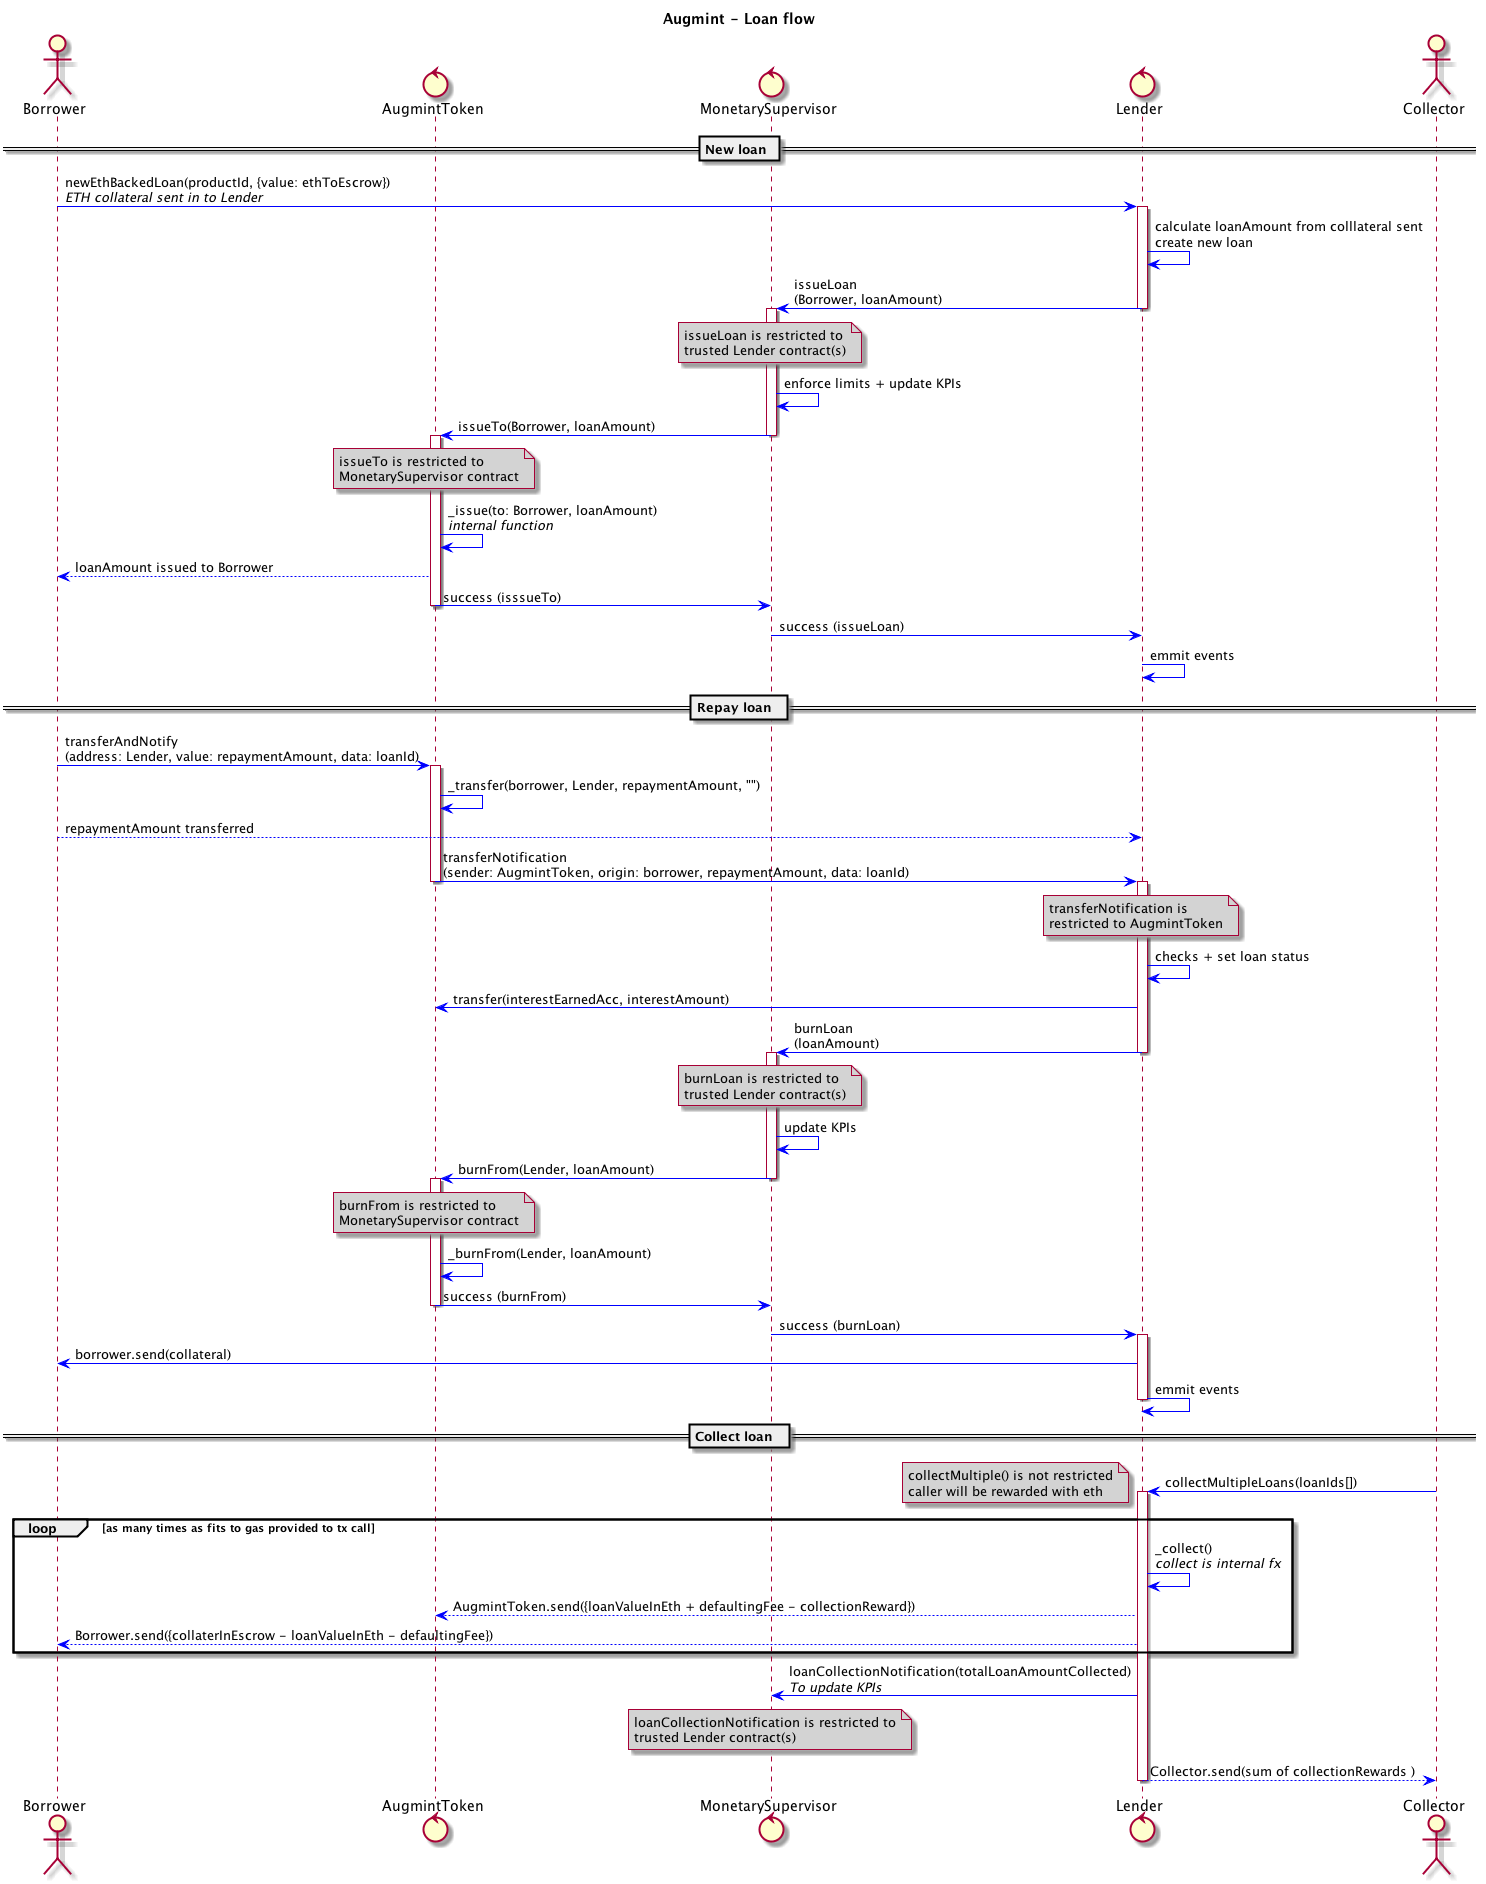
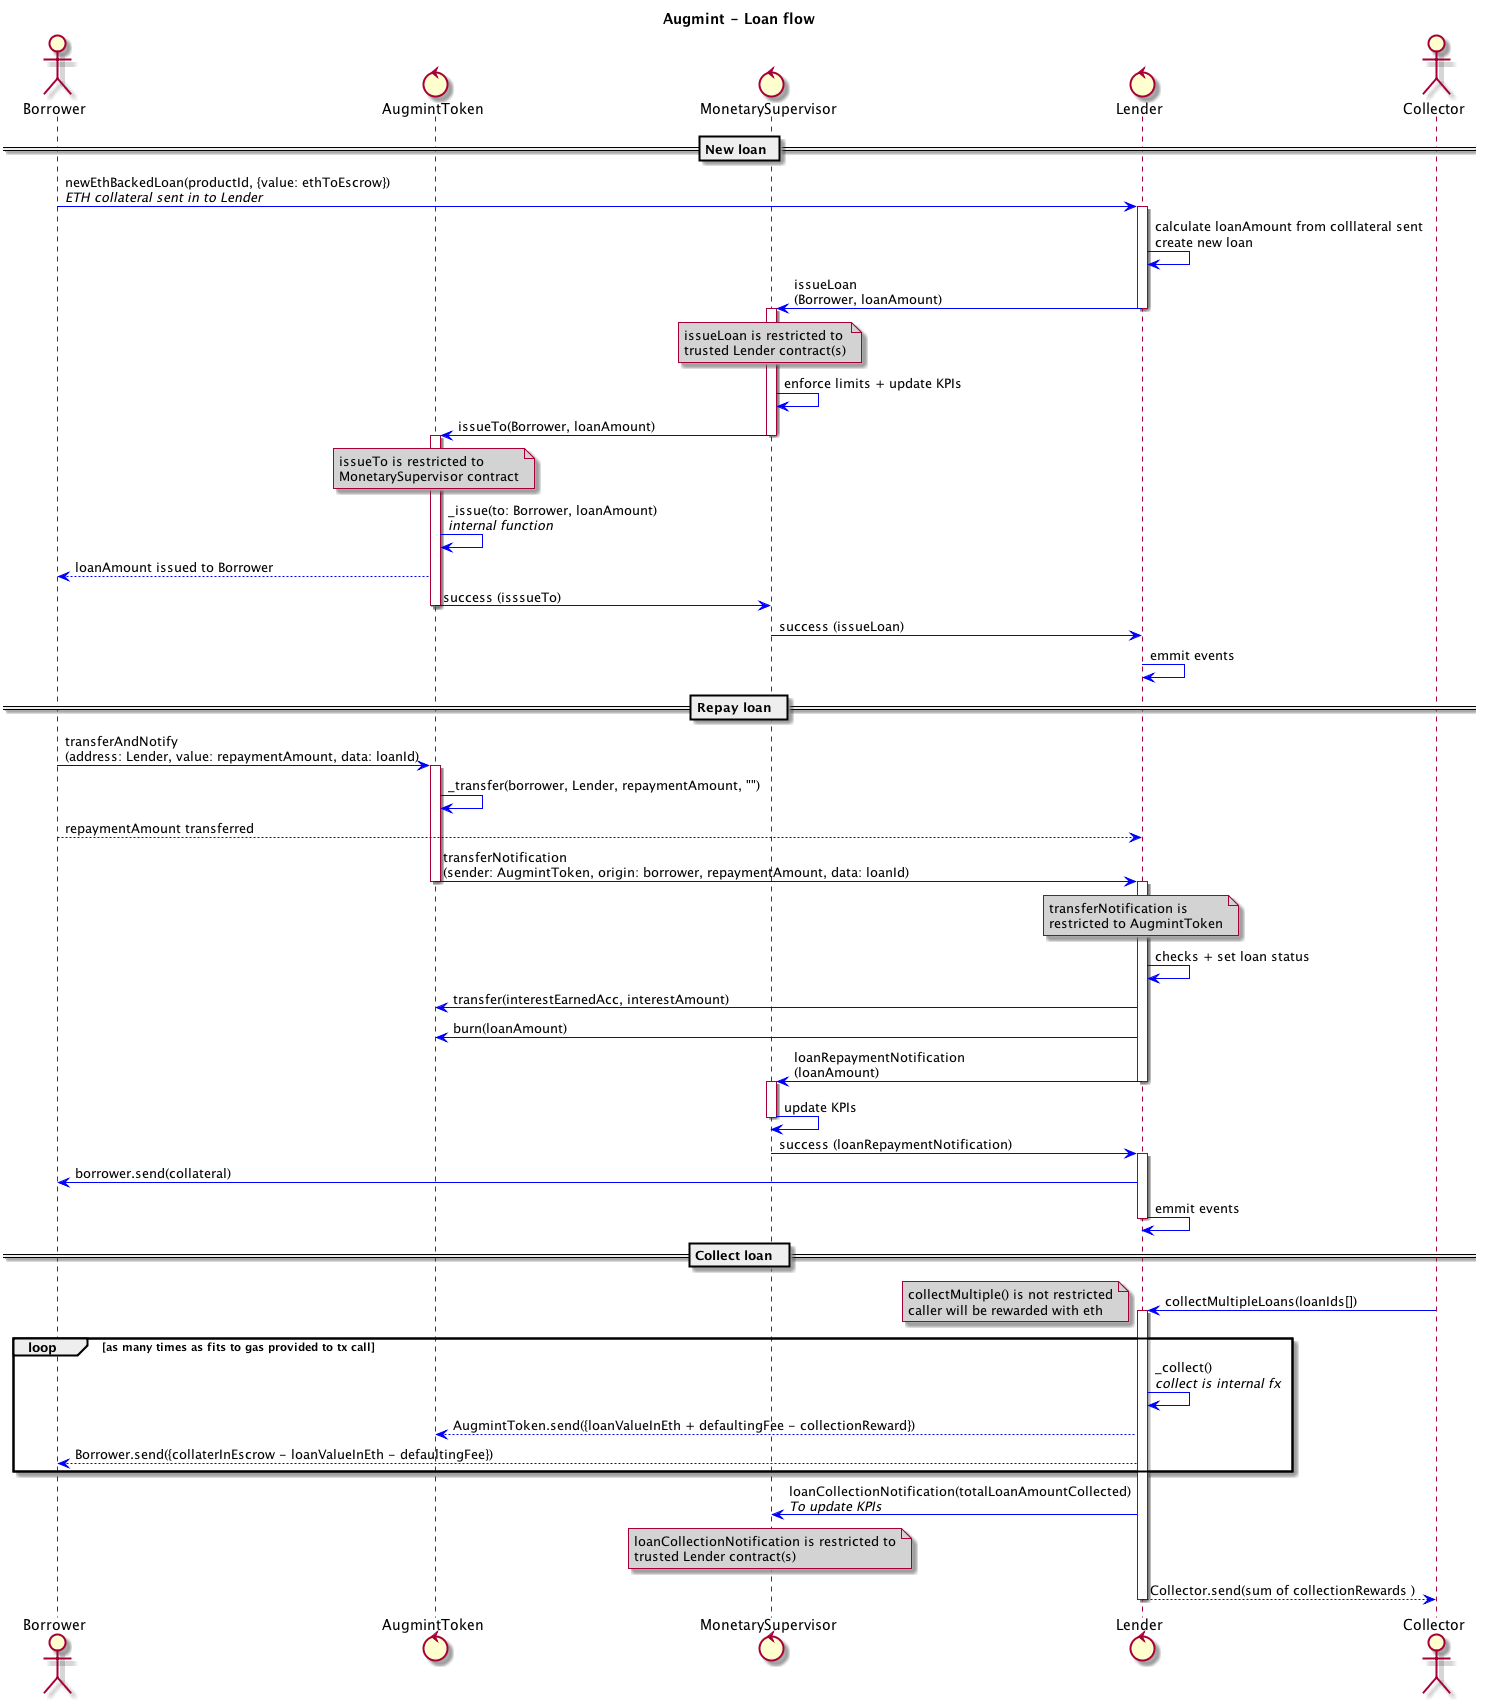
added AugmintReserves contract & restrict burn only from own balance

diff --git a/test/monetarySupervisor.test.js b/test/monetarySupervisor.test.js
@@ -3,34 +3,35 @@ const monetarySupervisorTestHelpers = require("./helpers/monetarySupervisorTestH
 const testHelper = require("./helpers/testHelper.js");
 
 const NULL_ACC = "0x0000000000000000000000000000000000000000";
-let tokenAce, monetarySupervisor;
+let tokenAce, monetarySupervisor, augmintReserves;
 
-contract("TokenAce tests", accounts => {
+contract("MonetarySupervisor tests", accounts => {
     before(async () => {
         tokenAce = await tokenAceTestHelper.newTokenAceMock();
         monetarySupervisor = await monetarySupervisorTestHelpers.newMonetarySupervisorMock(tokenAce);
+        augmintReserves = await monetarySupervisor.augmintReserves();
     });
 
     it("should be possible to issue new tokens to reserve", async function() {
         const amount = 100000;
         const [totalSupplyBefore, reserveBalBefore, issuedByMonetaryBoardBefore] = await Promise.all([
             tokenAce.totalSupply(),
-            tokenAce.balanceOf(tokenAce.address),
+            tokenAce.balanceOf(augmintReserves),
             monetarySupervisor.issuedByMonetaryBoard()
         ]);
 
-        const tx = await monetarySupervisor.issue(amount);
+        const tx = await monetarySupervisor.issueToReserve(amount);
         testHelper.logGasUse(this, tx, "issue");
 
         await testHelper.assertEvent(tokenAce, "Transfer", {
             from: NULL_ACC,
-            to: tokenAce.address,
+            to: augmintReserves,
             amount: amount
         });
 
         const [totalSupply, issuedByMonetaryBoard, reserveBal] = await Promise.all([
             tokenAce.totalSupply(),
-            tokenAce.balanceOf(tokenAce.address),
+            tokenAce.balanceOf(augmintReserves),
             monetarySupervisor.issuedByMonetaryBoard()
         ]);
 
@@ -52,30 +53,30 @@ contract("TokenAce tests", accounts => {
     });
 
     it("only allowed should issue tokens", async function() {
-        await testHelper.expectThrow(monetarySupervisor.issue(1000, { from: accounts[1] }));
+        await testHelper.expectThrow(monetarySupervisor.issueToReserve(1000, { from: accounts[1] }));
     });
 
     it("should be possible to burn tokens from reserve", async function() {
         const amount = 900;
-        await monetarySupervisor.issue(amount);
+        await monetarySupervisor.issueToReserve(amount);
         const [totalSupplyBefore, reserveBalBefore, issuedByMonetaryBoardBefore] = await Promise.all([
             tokenAce.totalSupply(),
-            tokenAce.balanceOf(tokenAce.address),
+            tokenAce.balanceOf(augmintReserves),
             monetarySupervisor.issuedByMonetaryBoard()
         ]);
 
-        const tx = await monetarySupervisor.burn(amount);
+        const tx = await monetarySupervisor.burnFromReserve(amount);
         testHelper.logGasUse(this, tx, "burn");
 
         await testHelper.assertEvent(tokenAce, "Transfer", {
-            from: tokenAce.address,
+            from: augmintReserves,
             to: NULL_ACC,
             amount: amount
         });
 
         const [totalSupply, issuedByMonetaryBoard, reserveBal] = await Promise.all([
             tokenAce.totalSupply(),
-            tokenAce.balanceOf(tokenAce.address),
+            tokenAce.balanceOf(augmintReserves),
             monetarySupervisor.issuedByMonetaryBoard()
         ]);
         assert.equal(
@@ -96,8 +97,8 @@ contract("TokenAce tests", accounts => {
     });
 
     it("only allowed should burn tokens", async function() {
-        await monetarySupervisor.issue(2000);
-        await testHelper.expectThrow(monetarySupervisor.burn(1000, { from: accounts[1] }));
+        await monetarySupervisor.issueToReserve(2000);
+        await testHelper.expectThrow(monetarySupervisor.burnFromReserve(1000, { from: accounts[1] }));
     });
 
     it("should be possible to set parameters", async function() {

diff --git a/test/loans.test.js b/test/loans.test.js
@@ -18,7 +18,7 @@ contract("ACE Loans tests", accounts => {
 
         [loanManager] = await Promise.all([
             loanTestHelper.newLoanManagerMock(tokenAce, monetarySupervisor, rates),
-            monetarySupervisor.issue(1000000000)
+            monetarySupervisor.issueToReserve(1000000000)
         ]);
 
         [
@@ -34,7 +34,7 @@ contract("ACE Loans tests", accounts => {
             loanTestHelper.getProductInfo(2),
             loanTestHelper.getProductInfo(1),
             loanTestHelper.getProductInfo(0),
-            tokenAce.withdrawTokens(accounts[0], 1000000000)
+            monetarySupervisorTestHelpers.withdrawFromReserve(accounts[0], 1000000000)
         ]);
 
         // For test debug:
@@ -179,14 +179,14 @@ contract("ACE Loans tests", accounts => {
     });
 
     it("only allowed contract should call MonetarySupervisor.issueLoan", async function() {
-        await testHelper.expectThrow(monetarySupervisor.issueLoan(accounts[0], 1000, { from: accounts[0] }));
+        await testHelper.expectThrow(monetarySupervisor.issueLoan(accounts[0], 0, { from: accounts[0] }));
     });
 
-    it("only allowed contract should call MonetarySupervisor.burnLoan", async function() {
-        await testHelper.expectThrow(monetarySupervisor.burnLoan(1000, { from: accounts[0] }));
+    it("only allowed contract should call MonetarySupervisor.loanRepaymentNotification", async function() {
+        await testHelper.expectThrow(monetarySupervisor.loanRepaymentNotification(0, { from: accounts[0] }));
     });
 
     it("only allowed contract should call MonetarySupervisor.loanCollectionNotification", async function() {
-        await testHelper.expectThrow(monetarySupervisor.loanCollectionNotification(1000, { from: accounts[0] }));
+        await testHelper.expectThrow(monetarySupervisor.loanCollectionNotification(0, { from: accounts[0] }));
     });
 });

diff --git a/test/helpers/monetarySupervisorTestHelpers.js b/test/helpers/monetarySupervisorTestHelpers.js
@@ -1,16 +1,20 @@
+const AugmintReserves = artifacts.require("./AugmintReserves.sol");
+
 module.exports = {
-    newMonetarySupervisorMock
+    newMonetarySupervisorMock,
+    withdrawFromReserve
 };
 
 const InterestEarnedAccount = artifacts.require("./InterestEarnedAccount.sol");
 const MonetarySupervisor = artifacts.require("./MonetarySupervisor.sol");
-let tokenAEur, monetarySupervisor, interestEarnedAccount;
+let tokenAEur, monetarySupervisor, augmintReserves, interestEarnedAccount;
 
 async function newMonetarySupervisorMock(augmintToken, tokenOwner = web3.eth.accounts[0]) {
     tokenAEur = augmintToken;
-
+    augmintReserves = await AugmintReserves.new();
     monetarySupervisor = await MonetarySupervisor.new(
         tokenAEur.address,
+        augmintReserves.address,
         InterestEarnedAccount.address,
 
         /* Parameters Used to ensure totalLoanAmount or totalLockedAmount difference is withing limit and system also works
@@ -25,6 +29,12 @@ async function newMonetarySupervisorMock(augmintToken, tokenOwner = web3.eth.acc
     interestEarnedAccount = InterestEarnedAccount.at(InterestEarnedAccount.address);
     await interestEarnedAccount.grantMultiplePermissions(monetarySupervisor.address, ["MonetarySupervisorContract"]);
     await tokenAEur.grantMultiplePermissions(monetarySupervisor.address, ["MonetarySupervisorContract"]);
-
+    await augmintReserves.grantMultiplePermissions(monetarySupervisor.address, ["MonetarySupervisorContract"]);
+    await tokenAEur.grantMultiplePermissions(monetarySupervisor.address, ["NoFeeTransferContracts"]);
+    await tokenAEur.grantMultiplePermissions(augmintReserves.address, ["NoFeeTransferContracts"]);
     return monetarySupervisor;
+}
+
+async function withdrawFromReserve(to, amount) {
+    await augmintReserves.withdrawTokens(tokenAEur.address, to, amount, "withdrawal for tests");
 }

diff --git a/migrations/8_deploy_MonetarySupervisor.js b/migrations/8_deploy_MonetarySupervisor.js
@@ -2,6 +2,7 @@ const SafeMath = artifacts.require("./SafeMath.sol");
 const TokenAEur = artifacts.require("./TokenAEur.sol");
 const MonetarySupervisor = artifacts.require("./MonetarySupervisor.sol");
 const InterestEarnedAccount = artifacts.require("./InterestEarnedAccount.sol");
+const AugmintReserves = artifacts.require("./AugmintReserves.sol");
 
 module.exports = async function(deployer) {
     deployer.link(SafeMath, MonetarySupervisor);
@@ -9,6 +10,7 @@ module.exports = async function(deployer) {
     await deployer.deploy(
         MonetarySupervisor,
         TokenAEur.address,
+        AugmintReserves.address,
         InterestEarnedAccount.address,
 
         /* Parameters Used to ensure totalLoanAmount or totalLockedAmount difference is withing limit and system also works
@@ -23,5 +25,5 @@ module.exports = async function(deployer) {
 
     const tokenAEur = TokenAEur.at(TokenAEur.address);
     await tokenAEur.grantMultiplePermissions(MonetarySupervisor.address, ["MonetarySupervisorContract"]);
-    // TODO: check MonetarySupervisor need "NoFeeTransferContracts"
+    await tokenAEur.grantMultiplePermissions(MonetarySupervisor.address, ["NoFeeTransferContracts"]);
 };

diff --git a/test/ExchangeRandom.test.js b/test/ExchangeRandom.test.js
@@ -70,10 +70,14 @@ contract("Exchange random tests", accounts => {
         rates = await ratesTestHelper.newRatesMock("EUR", MARKET_WEI_RATE);
         tokenAce = await tokenAceTestHelper.newTokenAceMock();
         monetarySupervisor = await monetarySupervisorTestHelpers.newMonetarySupervisorMock(tokenAce);
-        await monetarySupervisor.issue(TEST_ACCS_CT * ACC_INIT_ACE);
+        await monetarySupervisor.issueToReserve(TEST_ACCS_CT * ACC_INIT_ACE);
 
         console.log(`\x1b[2m\t*** Topping up ${TEST_ACCS_CT} accounts each with ${ACC_INIT_ACE / 10000} A-EURO\x1b[0m`);
-        await Promise.all(accounts.slice(0, TEST_ACCS_CT).map(acc => tokenAce.withdrawTokens(acc, ACC_INIT_ACE)));
+        await Promise.all(
+            accounts
+                .slice(0, TEST_ACCS_CT)
+                .map(acc => monetarySupervisorTestHelpers.withdrawFromReserve(acc, ACC_INIT_ACE))
+        );
 
         exchange = await exchangeTestHelper.newExchangeMock(tokenAce, rates, MIN_TOKEN);
     });

diff --git a/test/locker.js b/test/locker.js
@@ -31,13 +31,13 @@ contract("Lock", accounts => {
             tokenAceInstance.grantMultiplePermissions(lockerInstance.address, ["NoFeeTransferContracts"]),
             monetarySupervisor.grantMultiplePermissions(lockerInstance.address, ["LockerContracts"]),
 
-            monetarySupervisor.issue(50000),
+            monetarySupervisor.issueToReserve(50000),
             lockerInstance.addLockProduct(50000, 60, 100, true) // to be used in tests to make unit test independent
         ]);
 
         await Promise.all([
-            tokenAceInstance.withdrawTokens(tokenHolder, 40000),
-            tokenAceInstance.withdrawTokens(interestEarnedAddress, 10000)
+            monetarySupervisorTestHelpers.withdrawFromReserve(tokenHolder, 40000),
+            monetarySupervisorTestHelpers.withdrawFromReserve(interestEarnedAddress, 10000)
         ]);
     });
 

diff --git a/test/helpers/tokenAceTestHelper.js b/test/helpers/tokenAceTestHelper.js
@@ -1,6 +1,6 @@
 const BigNumber = require("bignumber.js");
 const testHelper = new require("./testHelper.js");
-const TokenAceMock = artifacts.require("./mocks/TokenAceMock.sol");
+const TokenAEur = artifacts.require("./mocks/TokenAEur.sol");
 const TRANSFER_MAXFEE = web3.toWei(0.01); // TODO: set this to expected value (+set gasPrice)
 
 module.exports = {
@@ -17,10 +17,10 @@ module.exports = {
 
 const FeeAccount = artifacts.require("./FeeAccount.sol");
 const InterestEarnedAccount = artifacts.require("./InterestEarnedAccount.sol");
-let tokenAce, monetarySupervisor;
+let tokenAce;
 
 async function newTokenAceMock(tokenOwner = web3.eth.accounts[0]) {
-    tokenAce = await TokenAceMock.new(
+    tokenAce = await TokenAEur.new(
         FeeAccount.address,
         2000, // transferFeePt in parts per million = 0.2%
         200, // min: 0.02 A-EUR

diff --git a/test/transferAce.test.js b/test/transferAce.test.js
@@ -8,10 +8,10 @@ contract("Transfer ACE tests", accounts => {
     before(async function() {
         tokenAce = await tokenAceTestHelper.newTokenAceMock();
         monetarySupervisor = await monetarySupervisorTestHelpers.newMonetarySupervisorMock(tokenAce);
-        await monetarySupervisor.issue(1000000000);
+        await monetarySupervisor.issueToReserve(1000000000);
         await Promise.all([
-            tokenAce.withdrawTokens(accounts[0], 500000000),
-            tokenAce.withdrawTokens(accounts[1], 500000000)
+            monetarySupervisorTestHelpers.withdrawFromReserve(accounts[0], 500000000),
+            monetarySupervisorTestHelpers.withdrawFromReserve(accounts[1], 500000000)
         ]);
         [feePt, minFee, maxFee] = await tokenAce.getParams();
         minFeeAmount = minFee.div(feePt).mul(1000000);

diff --git a/migrations/6_deploy_TokenAEur.js b/migrations/6_deploy_TokenAEur.js
@@ -1,6 +1,7 @@
 const SafeMath = artifacts.require("./SafeMath.sol");
 const TokenAEur = artifacts.require("./TokenAEur.sol");
 const FeeAccount = artifacts.require("./FeeAccount.sol");
+const AugmintReserves = artifacts.require("./AugmintReserves.sol");
 
 module.exports = async function(deployer, network, accounts) {
     deployer.link(SafeMath, TokenAEur);
@@ -15,4 +16,5 @@ module.exports = async function(deployer, network, accounts) {
     const tokenAEur = TokenAEur.at(TokenAEur.address);
     await tokenAEur.grantMultiplePermissions(accounts[0], ["MonetaryBoard"]);
     await tokenAEur.grantMultiplePermissions(FeeAccount.address, ["NoFeeTransferContracts"]);
+    await tokenAEur.grantMultiplePermissions(AugmintReserves.address, ["NoFeeTransferContracts"]);
 };

diff --git a/test/transferFromAce.test.js b/test/transferFromAce.test.js
@@ -7,9 +7,9 @@ contract("TransferFrom ACE tests", accounts => {
     before(async function() {
         tokenAce = await tokenAceTestHelper.newTokenAceMock();
         monetarySupervisor = await monetarySupervisorTestHelpers.newMonetarySupervisorMock(tokenAce);
-        await monetarySupervisor.issue(1000000000);
-        await tokenAce.withdrawTokens(accounts[0], 500000000);
-        await tokenAce.withdrawTokens(accounts[1], 500000000);
+        await monetarySupervisor.issueToReserve(1000000000);
+        await monetarySupervisorTestHelpers.withdrawFromReserve(accounts[0], 500000000);
+        await monetarySupervisorTestHelpers.withdrawFromReserve(accounts[1], 500000000);
         maxFee = await tokenAce.transferFeeMax();
     });
 

diff --git a/test/ExchangeMatching.test.js b/test/ExchangeMatching.test.js
@@ -20,9 +20,9 @@ contract("Exchange matching tests", accounts => {
         tokenAce = await tokenAceTestHelper.newTokenAceMock();
         monetarySupervisor = await monetarySupervisorTestHelpers.newMonetarySupervisorMock(tokenAce);
 
-        await monetarySupervisor.issue(1000000000);
-        await tokenAce.withdrawTokens(maker, 100000000);
-        await tokenAce.withdrawTokens(taker, 100000000);
+        await monetarySupervisor.issueToReserve(1000000000);
+        await monetarySupervisorTestHelpers.withdrawFromReserve(maker, 100000000);
+        await monetarySupervisorTestHelpers.withdrawFromReserve(taker, 100000000);
 
         exchange = await exchangeTestHelper.newExchangeMock(tokenAce, rates, 1000000);
     });

diff --git a/test/ExchangeOrders.test.js b/test/ExchangeOrders.test.js
@@ -17,9 +17,9 @@ contract("Exchange orders tests", accounts => {
         tokenAce = await tokenAceTestHelper.newTokenAceMock();
         monetarySupervisor = await monetarySupervisorTestHelpers.newMonetarySupervisorMock(tokenAce);
 
-        await monetarySupervisor.issue(1000000000);
+        await monetarySupervisor.issueToReserve(1000000000);
 
-        await Promise.all(makers.map(maker => tokenAce.withdrawTokens(maker, 100000000)));
+        await Promise.all(makers.map(maker => monetarySupervisorTestHelpers.withdrawFromReserve(maker, 100000000)));
 
         minOrderAmount = 1000000;
         exchange = await exchangeTestHelper.newExchangeMock(tokenAce, rates, minOrderAmount);
